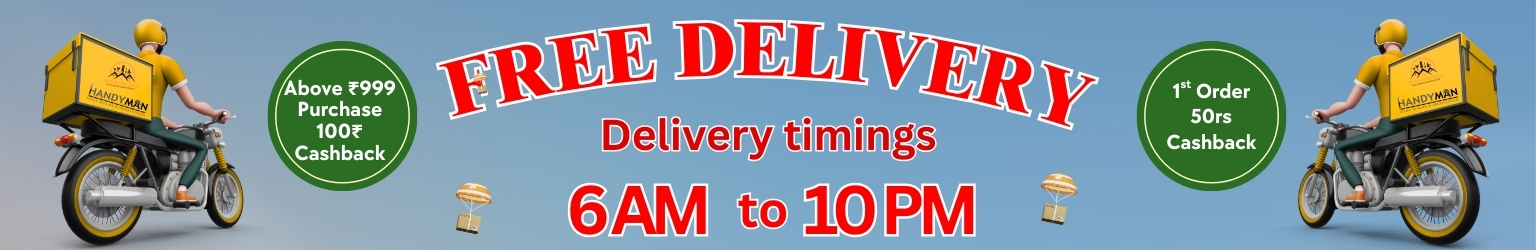
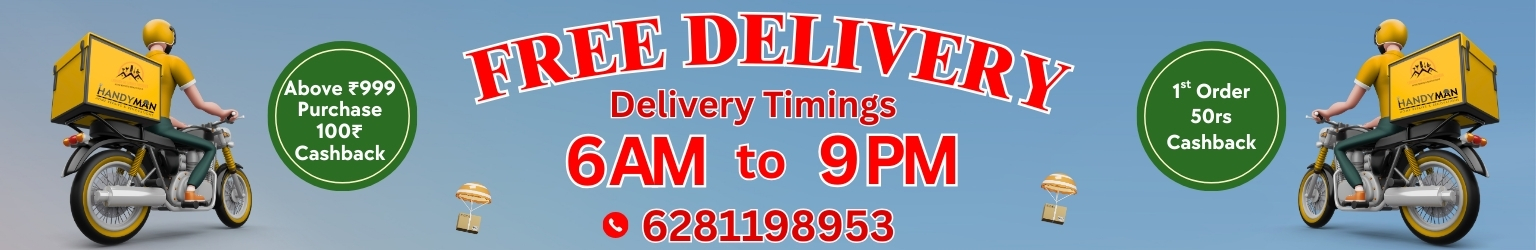
Added Limit (Atta) and100 cashback once

Changed region(s): [[0.2812, 0.028, 0.7188, 0.98], [0.0, 0.056, 0.1875, 1.0]]

diff --git a/src/GroceryPaymentMethod.js b/src/GroceryPaymentMethod.js
@@ -120,14 +120,30 @@ const isFirstOrderMinNotReached = isNewUser && numericGrandTotal < 100;
       ) {
         return null; // new user
       }
-
-      // Case 2: Existing user → JSON data
-      return JSON.parse(text);
-    } catch (error) {
-      console.log("API ERROR:", error);
-      return null; // treat error as new user
+  let parsed;
+    try {
+      parsed = JSON.parse(text);
+    } catch (err) {
+      console.warn("Could not parse CheckFirstOrder response:", err);
+      return null;
     }
-  };
+    if (parsed && !Array.isArray(parsed)) {
+      parsed = [parsed];
+    }
+    return Array.isArray(parsed) ? parsed : null;
+  } catch (error) {
+    console.error("API ERROR:", error);
+    return null;
+  }
+};
+
+  //     // Case 2: Existing user → JSON data
+  //     return JSON.parse(text);
+  //   } catch (error) {
+  //     console.log("API ERROR:", error);
+  //     return null; // treat error as new user
+  //   }
+  // };
 
   // useEffect(() => {
   //   let cancelled = false;
@@ -169,75 +185,137 @@ const isFirstOrderMinNotReached = isNewUser && numericGrandTotal < 100;
   //   };
   // }, [mobile]);
 
-  useEffect(() => {
-    let cancelled = false;
-    (async () => {
-      try {
-        const result = await CheckFirstOrder(mobile);
-        if (cancelled) return;
-        const newUser = result === null;
-        setIsNewUser(newUser);
-        const gt = Number(grandTotal) || 0;
-        let discount = 0;
-        let msg = "";
+//   useEffect(() => {
+//     let cancelled = false;
+//     (async () => {
+//       try {
+//         const result = await CheckFirstOrder(mobile);
+//         if (cancelled) return;
+//         const newUser = result === null;
+//         setIsNewUser(newUser);
+//         const gt = Number(grandTotal) || 0;
+//         let discount = 0;
+//         let msg = "";
 
-        if (newUser) {
-          if (gt > 1000) {
-            discount = 100;
-            msg = "";
-          } else if (gt >= 100) {
-            discount = 50;
-            msg = "";
-          } else {
-            discount = 0;
-            msg = "Order ₹100 or more to get ₹50 cashback on your first order!";
+//         if (newUser) {
+//           if (gt > 1000) {
+//             discount = 100;
+//             msg = "";
+//           } else if (gt >= 100) {
+//             discount = 50;
+//             msg = "";
+//           } else {
+//             discount = 0;
+//             msg = "Order ₹100 or more to get ₹50 cashback on your first order!";
+//           }
+//         } else {
+//           discount = gt > 1000 ? 100 : 0;
+//           msg = "";
+//         }
+//         //  if (newUser) {
+//         //   // if (gt >= 1999) {
+//         //   //   discount = 250;
+//         //   //   msg = "";
+//         //   // } 
+//         //   if (gt > 1000) {
+//         //     discount = 100;
+//         //     msg = "";
+//         //   } else if (gt >= 100) {
+//         //     discount = 50;
+//         //     msg = "";    
+//         //   } else {
+//         //     discount = 0;
+//         //     msg = "Order ₹100 or more to get ₹50 cashback on your first order!";
+//         //   }
+//         // } else {
+//         //   // if (gt >= 1999) {
+//         //   //   discount = 250;
+//         //   // }
+//         //    if (gt > 1000) {
+//         //     discount = 100;
+//         //   } else {
+//         //     discount = 0;
+//         //   }
+//         //   msg = "";
+//         // }
+//         setFirstOrderDiscount(discount);
+//         setCashbackMessage(msg);
+//         console.log("discount123456789", discount);
+//       } catch (e) {
+//         console.error("Failed:", e);
+//         if (!cancelled) {
+//           setIsNewUser(false);
+//           setFirstOrderDiscount(0);
+//           setCashbackMessage("");
+//         }
+//       }
+//     })();
+
+//     return () => {
+//       cancelled = true;
+//     };
+// }, [mobile, grandTotal]);
+
+useEffect(() => {
+  let cancelled = false;
+  (async () => {
+    try {
+      const prevOrders = await CheckFirstOrder(mobile);
+      if (cancelled) return;
+      const newUser = prevOrders === null;
+      setIsNewUser(newUser);
+    let hasReceived100Cashback = false;
+      if (Array.isArray(prevOrders)) {
+        hasReceived100Cashback = prevOrders.some((order) => {
+          try {
+            const sumTotalAmount = (order.categories ?? []).reduce((s, c) => {
+              return s + Number(c?.totalAmount ?? 0);
+            }, 0);
+            const gt = Number(order.grandTotal ?? 0);
+            return Math.abs(Math.round(sumTotalAmount) - Math.round(gt)) === 100;
+          } catch (e) {
+            return false;
           }
+        });
+      }
+      const gt = Number(grandTotal) || 0;
+      let discount = 0;
+      let msg = "";
+      if (newUser) {
+        if (gt > 1000) {
+          discount = 100;
+          msg = "";
+        } else if (gt >= 100) {
+          discount = 50;
+          msg = "";
+        } else {
+          discount = 0;
+          msg = "Order ₹100 or more to get ₹50 cashback on your first order!";
+        }
+      } else {
+         if (hasReceived100Cashback) {
+          discount = 0;
+          msg = "";
         } else {
           discount = gt > 1000 ? 100 : 0;
           msg = "";
         }
-        //  if (newUser) {
-        //   // if (gt >= 1999) {
-        //   //   discount = 250;
-        //   //   msg = "";
-        //   // } 
-        //   if (gt > 1000) {
-        //     discount = 100;
-        //     msg = "";
-        //   } else if (gt >= 100) {
-        //     discount = 50;
-        //     msg = "";    
-        //   } else {
-        //     discount = 0;
-        //     msg = "Order ₹100 or more to get ₹50 cashback on your first order!";
-        //   }
-        // } else {
-        //   // if (gt >= 1999) {
-        //   //   discount = 250;
-        //   // }
-        //    if (gt > 1000) {
-        //     discount = 100;
-        //   } else {
-        //     discount = 0;
-        //   }
-        //   msg = "";
-        // }
-        setFirstOrderDiscount(discount);
-        setCashbackMessage(msg);
-        console.log("discount123456789", discount);
-      } catch (e) {
-        console.error("Failed:", e);
-        if (!cancelled) {
-          setIsNewUser(false);
-          setFirstOrderDiscount(0);
-          setCashbackMessage("");
-        }
       }
-    })();
-
-    return () => {
-      cancelled = true;
-    };
+      setFirstOrderDiscount(discount);
+      setCashbackMessage(msg);
+      console.log("CheckFirstOrder -> newUser:", newUser, "hasReceived100Cashback:", hasReceived100Cashback, "discount:", discount);
+    } catch (e) {
+      console.error("Failed while checking first order:", e);
+      if (!cancelled) {
+        setIsNewUser(false);
+        setFirstOrderDiscount(0);
+        setCashbackMessage("");
+      }
+    }
+  })();
+  return () => {
+    cancelled = true;
+  };
 }, [mobile, grandTotal]);
 
 const getReferralRecord = async (userId) => {
@@ -276,7 +354,7 @@ useEffect(() => {
 useEffect(() => {
   const gt = Number(grandTotal) || 0;
   const pts = Number(referralPoints) || 0;
-  const applied = Math.min(pts, gt);   // cap by grand total
+  const applied = Math.min(pts, gt);   
   setReferralAmount(applied);
   setNetPayable(Math.max(0, gt - applied));
 }, [grandTotal, referralPoints]);
@@ -1421,7 +1499,18 @@ const handleCheckboxChange = (value) => {
               <td style={{ width: "40%", fontSize: "14px" }}>Grand Total</td>
               <td style={{ width: "40%" }}>Rs {grandTotal} /-</td>
             </tr>
-            {(isNewUser || grandTotal >= 1000) && (
+            {firstOrderDiscount > 0 && (
+              <tr>
+                <td style={{ width: "40%", fontSize: "14px" }}>
+                  Cash Back
+                </td>
+
+                <td style={{ width: "40%", fontSize: "14px" }}>
+                  {`₹${firstOrderDiscount}`}
+                </td>
+              </tr>
+            )}
+            {/* {(isNewUser || grandTotal > 1000) && (
         <tr>
           <td style={{ width: "40%", fontSize: "14px" }}>
             Cash Back
@@ -1433,7 +1522,7 @@ const handleCheckboxChange = (value) => {
               : "-"}
           </td>
         </tr>
-      )}
+      )} */}
             {Number(referralAmount) > 0 && (
               <tr>
                 <td style={{ width: "40%", fontSize: "14px" }}>Referral Earn Amount</td>

diff --git a/src/ProfilePage.js b/src/ProfilePage.js
@@ -870,9 +870,9 @@ const categories = [
     
 const groceryCategories = [
   { label: 'Milk, Curd & Ghee', value: 'Milk, Curd & Ghee', image: MilkImg },
+  { label: 'Ice Creams', value: 'Ice Creams', image: IcecreamImg },
   { label: 'Vegetables', value: 'Vegetables', image: VegetablesImg },
   { label: 'Fruits', value: 'Fruits', image: FruitsImg }, 
-  { label: 'Chicken', value: 'Chicken', image: ChickenImg },
   { label: 'Rice & Ravva', value: 'Rice & Ravva', image: RavvaImg },
   { label: 'Atta & Flours', value: 'Atta & Flours', image: AttaImg },
   { label: 'Oils & Dals', value: 'Oils & Dals', image: OilsImg },
@@ -882,7 +882,6 @@ const groceryCategories = [
   { label: 'Instant Food, Chips & Namkeen', value: 'Instant Food, Chips & Namkeen', image: NamkeenImg },
   { label: 'Biscuits & Chocolates', value: 'Biscuits & Chocolates', image: BiscuitsImg },
   { label: 'Drinks & Juices', value: 'Drinks & Juices', image: DrinkImg },
-  { label: 'Ice Creams', value: 'Ice Creams', image: IcecreamImg },
   { label: 'Sweets & Snacks', value: 'Sweets & Snacks', image: BakeryImg },
   { label: 'Dry Fruits & Bakery', value: 'Dry Fruits & Bakery', image: DryfruitsImg },
   { label: 'Soups & Sauces', value: 'Soups & Sauces', image: SoupsImg},
@@ -895,7 +894,8 @@ const groceryCategories = [
   { label: 'Baby Products', value: 'Baby Products', image: BabyKidsImg },
   { label: 'Kids Zone', value: 'Kids Zone', image: KidsImg },
   { label: 'Health Care', value: 'Health Care', image: HealthImg },
-  { label: 'Kitchenware Appliances', value: 'Kitchenware Appliances', image: KitchenImg }
+  { label: 'Kitchenware Appliances', value: 'Kitchenware Appliances', image: KitchenImg },
+  { label: 'Chicken', value: 'Chicken', image: ChickenImg },
 ];
 
 

diff --git a/src/GroceryItems.js b/src/GroceryItems.js
@@ -411,7 +411,7 @@ function getItemTime(p) {
                 fontFamily: "Roboto",
               }}
             >
-                Delivery Timings : 06:00 AM -10:00 PM
+                Delivery Timings : 06:00 AM -09:00 PM
             </span>
           </h1>
         </div>
@@ -474,14 +474,14 @@ function getItemTime(p) {
                 style={{ color: "green", cursor: "pointer" }}
                 onClick={() => navigate(`/profilePage/${userType}/${userId}`)}
               />
-              <h4 className="fw-bold mb-0">{selectedCategory}</h4>
+              <h4 className="fw-bold mt-1">{selectedCategory}</h4>
             </div>
              {(selectedCategory === "Vegetables" ||
                 selectedCategory === "Fruits" ||
                 selectedCategory === "Chicken" || 
               selectedCategory === "Ice Creams" ) && (
                 <div
-                  className="mt-2 rounded-3"
+                  className="mt-1 rounded-3"
                   style={{
                     backgroundColor: "#fff3e0",
                     color: "red",

diff --git a/src/GroceryOfferItems.js b/src/GroceryOfferItems.js
@@ -42,6 +42,7 @@ const LIMIT_RULES = [
   { match: normalizeName("Gold Drop Refined Sunflower Oil Can 5 L"), limit: 1 },
   { match: normalizeName("Aashirvaad Superior Whole Wheat Atta 5 Kg"), limit: 1 },
   { match: normalizeName("Aashirvaad High Fibre Atta with Multigrains 5 kg"), limit: 1 },
+  { match: normalizeName("Aashirvaad Superior Whole Wheat MP Atta 1 Kg"), limit: 2 },
 ];
 const getLimit = (product) => {
   if (!product) return Infinity;
@@ -431,7 +432,7 @@ const GroceryOfferItems = () => {
                 fontFamily: "Roboto",
               }}
             >
-              Delivery Timings : 06:00 AM -10:00 PM
+              Delivery Timings : 06:00 AM -09:00 PM
             </span>
           </h1>
         </div>

diff --git a/src/GroceryCartPage.js b/src/GroceryCartPage.js
@@ -64,7 +64,8 @@ function getCustomLimit(name) {
     n === "raw banana 1 pc" || 
     n === "freedom refined sunflower oil 1 l" || 
     n === "gold drop refined sunflower oil 1 l" ||
-    n === "independence refined sunflower oil 1 l" 
+    n === "independence refined sunflower oil 1 l" ||
+    n === "aashirvaad superior whole wheat mp atta 1 kg"
      
     // n === "combo pack 1 - daawat basmati rice 1kg + eastern garam masala 100g + visakha dairy paneer 200g" ||
     // n === "combo pack 2 - daawat biryani basmati rice 1kg + eastern garam masala 100g + visakha dairy paneer 200g"

diff --git a/src/GroceryOffersCartPage.js b/src/GroceryOffersCartPage.js
@@ -46,6 +46,7 @@ const LIMIT_RULES = [
   { match: norm("Gold Drop Refined Sunflower Oil Can 5 L"), limit: 1 },
   { match: norm("Aashirvaad Superior Whole Wheat Atta 5 Kg"), limit: 1 },
   { match: norm("Aashirvaad High Fibre Atta with Multigrains 5 kg"), limit: 1 },
+  { match: norm("Aashirvaad Superior Whole Wheat MP Atta 1 Kg"), limit: 2 },
 ];
      
 const getLimit = (item) => {

diff --git a/src/Footer.js b/src/Footer.js
@@ -7,7 +7,7 @@ const Footer = () => {
       <br />
       <span className="small">&copy; 2025 Lakshmi software development center. All rights reserved.</span> <br/>
        <span className="small">
-        <strong> Office Hours :</strong> 06:00 AM-10:00 PM
+        <strong> Office Hours :</strong> 06:00 AM-09:00 PM
       </span>
       {/* <br />
       <span className="small">
